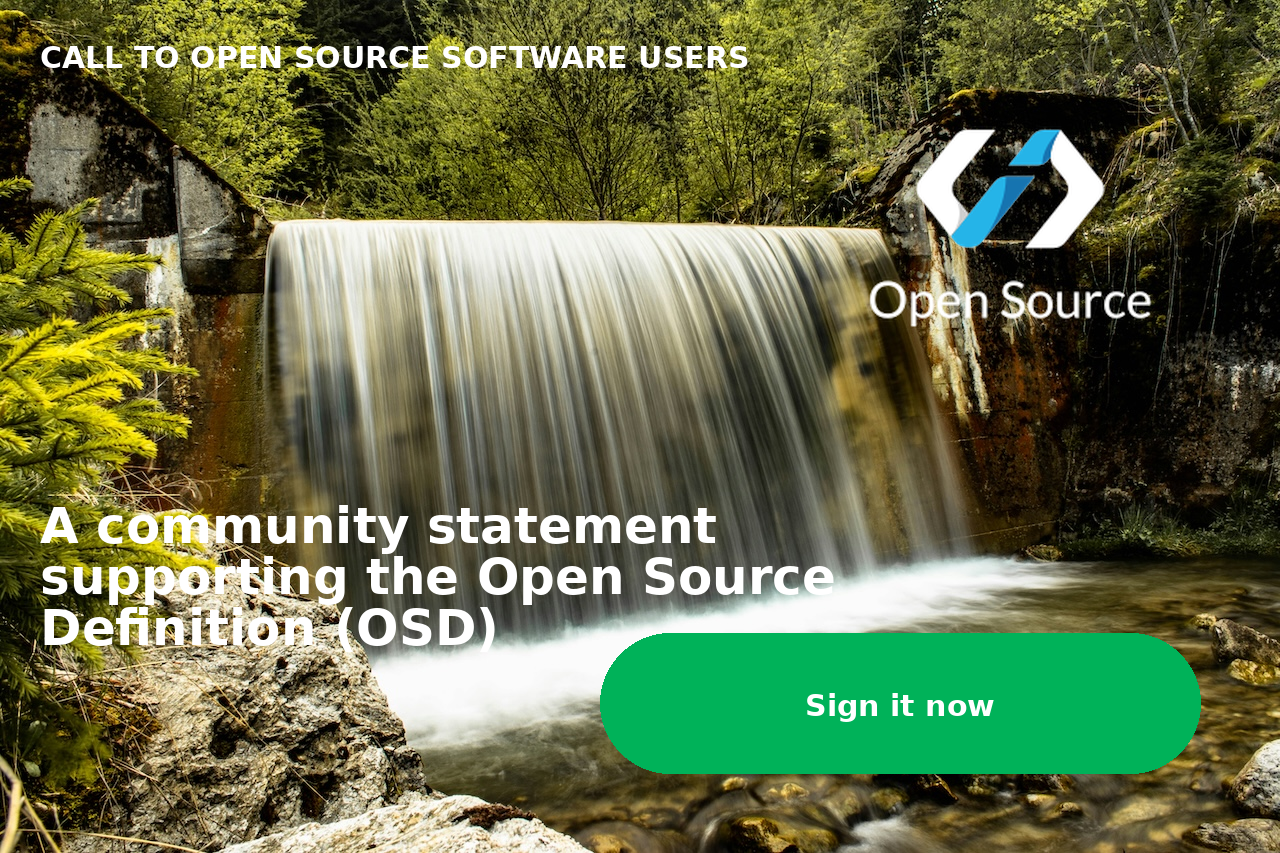
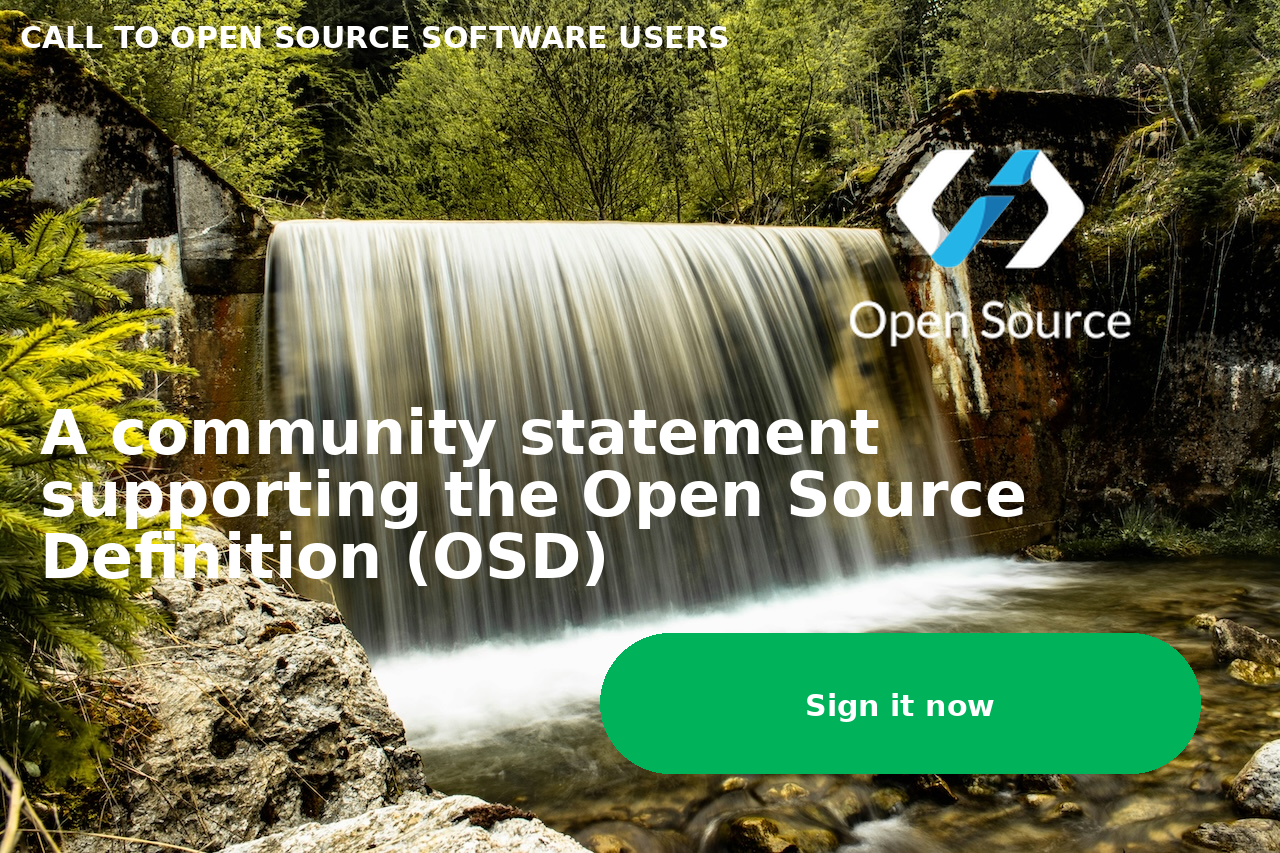
image

Changed region(s): [[0.0312, 0.4572, 0.8125, 0.762], [0.6562, 0.1524, 0.9062, 0.3962], [0.0, 0.0305, 0.5938, 0.0914]]

diff --git a/_scripts/image.py b/_scripts/image.py
@@ -85,10 +85,10 @@ def resize_logo(image, scale_factor, max_width, max_height):
 scale_factor = 2  # Scale the logo to approximately 2x its original size
 logo_size = (500, 500)  # Maximum size constraints
 logo_image = resize_logo(logo_image, scale_factor, *logo_size)
-logo_position = (background_image.width - logo_image.width - 20, 20)  # Closer to the top right corner
+logo_position = (background_image.width - logo_image.width - 40, 40)  # Closer to the top right corner
 
 # Load the main font
-main_font = ImageFont.truetype(str(FONT_PATH), 50)  # Adjust the size as needed
+main_font = ImageFont.truetype(str(FONT_PATH), 62)  # Adjust the size as needed
 
 # Load the button font
 button_font = ImageFont.truetype(str(FONT_PATH), 30)  # Adjust the size as needed
@@ -123,7 +123,7 @@ def create_image(text_main, text_call_to_action, button_text, language_code):
     # Draw additional text in top left
     #additional_text = "CALL TO OPEN SOURCE SOFTWARE USERS"
     draw.text(
-        (40, 40),  # Top left with padding
+        (20, 20),  # Top left with padding
         text_call_to_action.upper(),
         font=button_font,  # Use smaller font
         fill=TEXT_COLOR
@@ -132,7 +132,7 @@ def create_image(text_main, text_call_to_action, button_text, language_code):
     # Draw the main title text, wrapping to fit and increase size
     text_main_wrapped = "\n".join(textwrap.wrap(text_main, width=30))  # Adjust width for wrapping
     draw.text(
-        (40, logo_image.height + 80),  # Position below the logo with more padding
+        (40, logo_image.height - 20),  # Position below the logo with more padding
         text_main_wrapped,
         font=main_font,  # Consider using a larger font size
         fill=TEXT_COLOR
